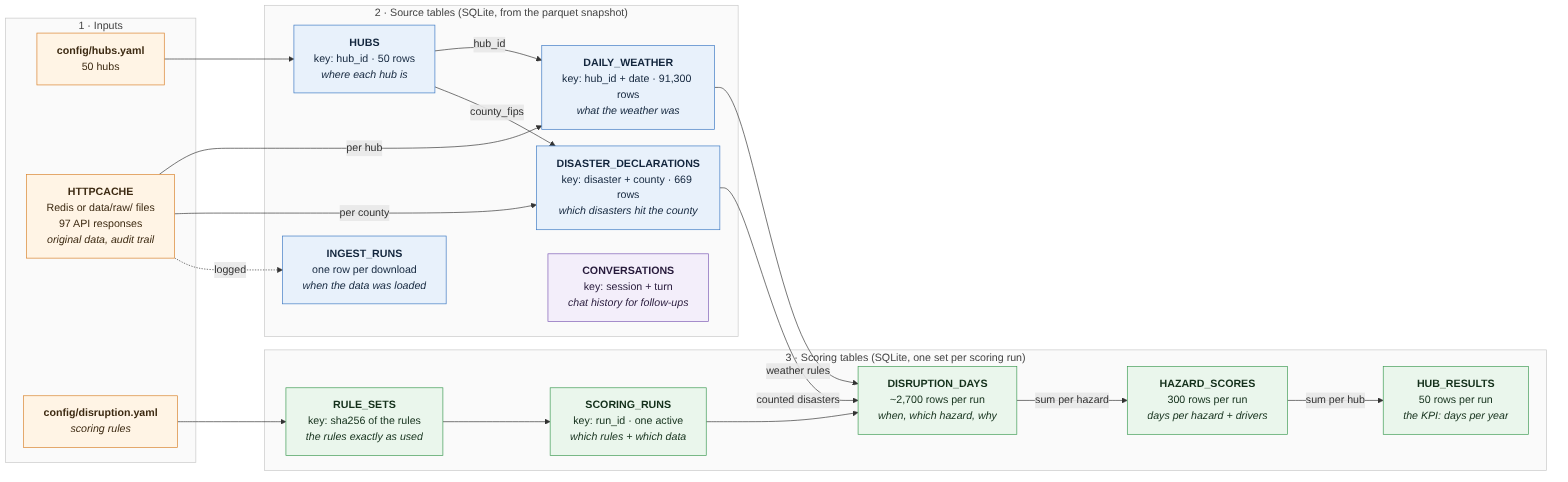
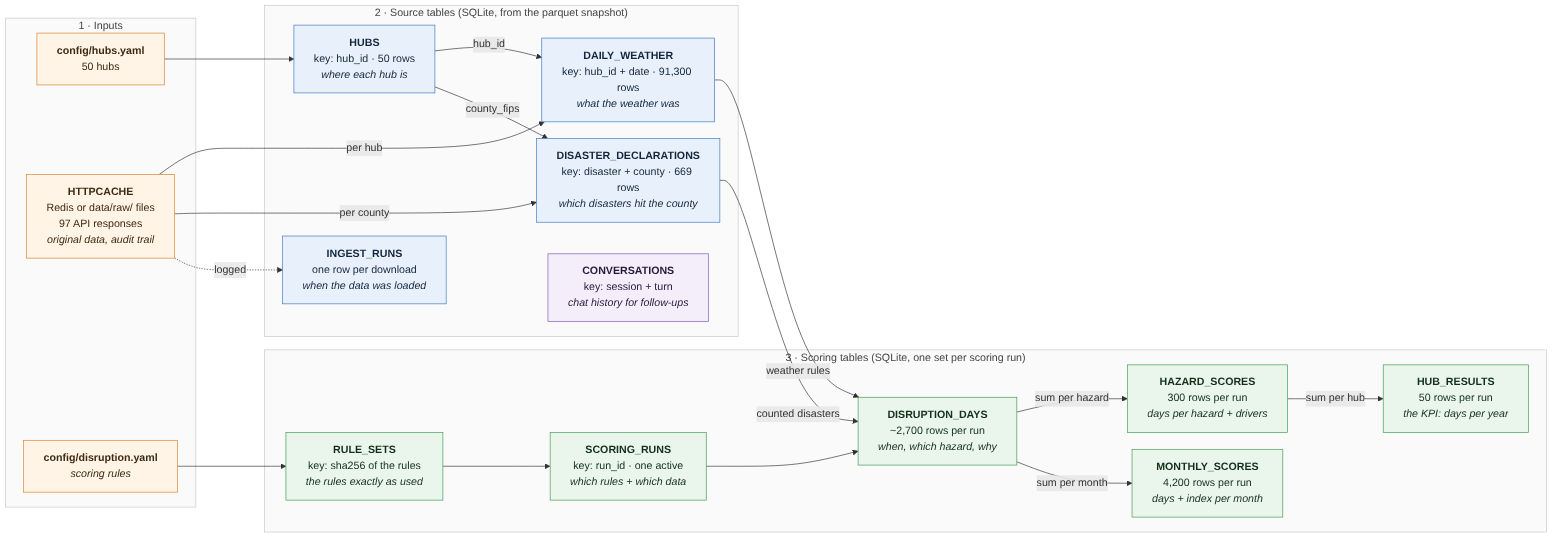
Index per month, season and period with a pro-rated reference (monthly indices average to the annual index); monthly_scores table; monthly index in the UI
Claude-Session: https://claude.ai/code/session_011hVRPXqiRTcMk6kbKtmVuh

diff --git a/app/static/index.html b/app/static/index.html
@@ -231,12 +231,13 @@ function renderDetails(res) {
   for (const c of calls0) {
     if (c.name === "hub_breakdown") {
       const r = c.result, hubs = r.hubs, key = r.by === "year" ? "days" : "days_per_year";
-      html += `<h3>By ${esc(r.by)} - ${r.by === "year" ? "actual days in the year" : "days / year in the period"}</h3>`
+      html += `<h3>By ${esc(r.by)} - ${r.by === "year" ? "actual days in the year" : "days / year in the period"} · index (100 = typical hub)</h3>`
            + "<table class='rank'><thead><tr><th>" + esc(r.by) + "</th>"
            + hubs.map(h => `<th class="num">${esc(h.hub.city)}</th>`).join("") + "</tr></thead><tbody>"
            + hubs[0].periods.map((p, j) => `<tr><td>${esc(String(p.period))}</td>` + hubs.map(h => {
                const v = h.periods[j], peak = String(h.highest_period) === String(v.period);
-               return `<td class="num">${peak ? "<b>" : ""}${v[key].toFixed(2)}${peak ? "</b>" : ""}</td>`;
+               const t = v.tier ? ` <span class="tier t-${esc(v.tier).replace(" ", "-")}" title="index ${Math.round(v.index)} (100 = typical hub)">${Math.round(v.index)}</span>` : "";
+               return `<td class="num">${peak ? "<b>" : ""}${v[key].toFixed(2)}${peak ? "</b>" : ""}${t}</td>`;
              }).join("") + "</tr>").join("") + "</tbody></table>"
            + `<p class="meta">${esc(r.small_sample_warning)}</p>`;
     }

diff --git a/app/agent/tools.py b/app/agent/tools.py
@@ -31,7 +31,9 @@ METHOD = {
     "index": ("standardised score: 100 = a typical hub (the median hub's total, fixed in the rules); "
               "index = 100 x days / reference days, for the total and for each hazard (hazard indices add "
               "up to the total); tiers: low < 50, moderate < 100, elevated < 150, high < 200, very high >= 200. "
-              "For a season or months, the index compares those days with a typical hub's WHOLE year"),
+              "For a month, season or set of months the reference is pro-rated: a month is compared with a "
+              "typical hub's average month (reference / 12), a season with 3/12 of it; so 12 monthly "
+              "indices average to the annual index"),
 }
 
 
@@ -67,10 +69,10 @@ def _leader(values: dict[str, float]) -> dict:
             "tied": top[0][1] == top[-1][1]}
 
 
-def _index(days: float) -> dict:
-    """Standardised index (100 = a typical hub's whole-year total) and tier, from the rule config."""
+def _index(days: float, months=None) -> dict:
+    """Standardised index (100 = a typical hub over the same period) and tier, from the rule config."""
     idx = load_scoring().index
-    i = idx.index(days)
+    i = idx.index(days, 12 if months is None else len(months))
     return {"index": i, "tier": idx.tier(i)}
 
 
@@ -153,7 +155,7 @@ def compare_hubs(args: CompareHubsInput) -> dict:
             return _hazard_detail(r, h, ranks[h], 2)
         v = views[r.hub_id].get(h, {"days_per_year": 0.0, "events_in_data": 0, "from_weather": 0.0,
                                      "from_fema_declarations": 0.0, "top_drivers": []})
-        return {"label": r.hazards[h].label, **v, **_index(v["days_per_year"]), "rank_among_hubs": ranks[h].get(r.hub_id),
+        return {"label": r.hazards[h].label, **v, **_index(v["days_per_year"], months), "rank_among_hubs": ranks[h].get(r.hub_id),
                 "fema_disasters_counted": [{"title": d.title, "incident_start": d.incident_begin_date,
                                             "days_counted": d.days} for d in r.declarations_counted
                                            if d.hazard == h and int((d.incident_begin_date or d.declaration_date)[5:7]) in months],
@@ -163,7 +165,7 @@ def compare_hubs(args: CompareHubsInput) -> dict:
     rows = [{
         "hub": {k: getattr(r, k) for k in ("hub_id", "city", "state", "region")},
         "total_days_per_year": round(total[r.hub_id], 3),
-        **_index(total[r.hub_id]),
+        **_index(total[r.hub_id], months),
         "overall_rank": ranks["total"].get(r.hub_id),
         "hazards": {h: detail(r, h) for h in hazards},
         "caveats": _caveats(r),

diff --git a/app/scoring/periods.py b/app/scoring/periods.py
@@ -7,6 +7,7 @@ so "days per year in winter" + the other three seasons = the annual total.
 """
 from collections import defaultdict
 
+from app.config import load_scoring
 from app.scoring.disruption import HubDisruption
 
 MONTH_NAMES = ["Jan", "Feb", "Mar", "Apr", "May", "Jun", "Jul", "Aug", "Sep", "Oct", "Nov", "Dec"]
@@ -83,6 +84,7 @@ def breakdown(r: HubDisruption, hazard: str, by: str, years: list[int]) -> list[
     year: actual days in that calendar year: weather days of that year plus counted disasters whose
           incident started that year, at their full days (not averaged)."""
     rows = []
+    idx = load_scoring().index
     if by in ("month", "season"):
         periods = ([(MONTH_NAMES[m - 1], frozenset({m})) for m in range(1, 13)] if by == "month"
                    else list(SEASONS.items()))
@@ -91,7 +93,9 @@ def breakdown(r: HubDisruption, hazard: str, by: str, years: list[int]) -> list[
             by_hz = defaultdict(float)
             for x in recs:
                 by_hz[x.hazard] += _weight(r, x)
-            rows.append({"period": name, "days_per_year": round(sum(by_hz.values()), 3),
+            days = round(sum(by_hz.values()), 3)
+            i = idx.index(days, len(months))
+            rows.append({"period": name, "days_per_year": days, "index": i, "tier": idx.tier(i),
                          "events_in_data": len({x.event for x in recs}),
                          "main_hazard": max(by_hz, key=by_hz.get) if by_hz else None})
     else:
@@ -100,7 +104,21 @@ def breakdown(r: HubDisruption, hazard: str, by: str, years: list[int]) -> list[
             by_hz = defaultdict(float)
             for x in recs:
                 by_hz[x.hazard] += x.value
-            rows.append({"period": y, "days": round(sum(by_hz.values()), 3),
+            days = round(sum(by_hz.values()), 3)
+            i = idx.index(days)
+            rows.append({"period": y, "days": days, "index": i, "tier": idx.tier(i),
                          "events": len({x.event for x in recs}),
                          "main_hazard": max(by_hz, key=by_hz.get) if by_hz else None})
     return rows
+
+
+def monthly_scores(r: HubDisruption, hazards: list[str]) -> list[dict]:
+    """Days per year and index for every month, per hazard and for the total (one row each)."""
+    idx = load_scoring().index
+    out = []
+    for hz in ["total", *hazards]:
+        for m in range(1, 13):
+            days = period_days(r, hz, frozenset({m}))
+            i = idx.index(days, 1)
+            out.append({"hazard": hz, "month": m, "days_per_year": days, "index": i, "tier": idx.tier(i)})
+    return out

diff --git a/tests/test_index.py b/tests/test_index.py
@@ -69,3 +69,40 @@ def test_old_scoring_tables_are_rebuilt_on_schema_upgrade(tmp_path, monkeypatch)
         kept = c.execute("SELECT COUNT(*) FROM conversations").fetchone()[0]
     assert "index_value" in cols and "tier" in cols
     assert kept == 1                                     # chat history is not touched
+
+
+def test_monthly_index_is_pro_rated_and_averages_to_the_annual_index():
+    from app.scoring.periods import breakdown
+    for hub in ("denver", "miami", "dallas"):
+        r = service.by_id(hub)
+        months = breakdown(r, "total", "month", [])
+        assert sum(m["index"] for m in months) / 12 == pytest.approx(r.index, abs=0.2)
+        seasons = breakdown(r, "total", "season", [])
+        assert sum(s["index"] for s in seasons) / 4 == pytest.approx(r.index, abs=0.2)
+    mar = next(m for m in breakdown(service.by_id("denver"), "total", "month", []) if m["period"] == "Mar")
+    assert (round(mar["index"]), mar["tier"]) == (624, "very high")   # 2.52 days vs 4.85 / 12
+
+
+def test_period_rankings_and_comparisons_use_the_pro_rated_reference():
+    res, _ = run_tool("rank_hubs", {**P, "hazard": "total", "region": None, "top_n": 1, "order": "most",
+                                    "season": "summer"})
+    top = res["ranking"][0]
+    assert top["index"] == pytest.approx(100 * top["days_per_year"] / (4.85 * 3 / 12), abs=0.1)
+    res, _ = run_tool("compare_hubs", {"hub_ids": ["miami", "houston"], "hazards": ["tropical"],
+                                       "season": None, "months": [6, 7, 8, 9, 10, 11]})
+    h = res["hubs"][0]
+    assert h["index"] == pytest.approx(100 * h["total_days_per_year"] / (4.85 * 6 / 12), abs=0.1)
+
+
+def test_monthly_scores_table_matches_the_breakdown():
+    from app.scoring import store
+    from app.scoring.periods import breakdown
+    run = service.run_id()
+    with db.connect() as conn:
+        rows = conn.execute("SELECT month, days_per_year, index_value, tier FROM monthly_scores "
+                            "WHERE run_id = ? AND hub_id = 'denver' AND hazard = 'total' ORDER BY month",
+                            (run,)).fetchall()
+        n = conn.execute("SELECT COUNT(*) FROM monthly_scores WHERE run_id = ?", (run,)).fetchone()[0]
+    expected = breakdown(service.by_id("denver"), "total", "month", [])
+    assert [(r[1], r[2], r[3]) for r in rows] == [(e["days_per_year"], e["index"], e["tier"]) for e in expected]
+    assert n == 50 * 7 * 12   # hubs x (6 hazards + total) x months

diff --git a/app/db.py b/app/db.py
@@ -89,6 +89,17 @@ CREATE TABLE IF NOT EXISTS disruption_days (
     PRIMARY KEY (run_id, hub_id, date, hazard, event),
     FOREIGN KEY (run_id, hub_id) REFERENCES hub_results(run_id, hub_id)
 );
+CREATE TABLE IF NOT EXISTS monthly_scores (
+    run_id INTEGER NOT NULL,
+    hub_id TEXT NOT NULL,
+    hazard TEXT NOT NULL,                 -- a hazard, or 'total'
+    month INTEGER NOT NULL,               -- 1..12
+    days_per_year REAL NOT NULL,          -- expected days per year falling in that month
+    index_value REAL NOT NULL,            -- 100 = a typical hub's average month (reference / 12)
+    tier TEXT NOT NULL,
+    PRIMARY KEY (run_id, hub_id, hazard, month),
+    FOREIGN KEY (run_id, hub_id) REFERENCES hub_results(run_id, hub_id)
+);
 CREATE INDEX IF NOT EXISTS idx_runs_status ON scoring_runs(status);
 CREATE TABLE IF NOT EXISTS conversations (
     session_id TEXT, turn INTEGER, role TEXT, content TEXT, created_at TEXT,
@@ -106,8 +117,8 @@ SNAPSHOT_TABLES = ["hubs", "daily_weather", "disaster_declarations", "ingest_run
 
 # Bump when the derived scoring tables change shape. They hold no source data (they are rebuilt from
 # the snapshot and the rules), so an older version is simply dropped and recreated.
-SCORING_SCHEMA_VERSION = 2
-SCORING_TABLES = ["disruption_days", "hazard_scores", "hub_results", "scoring_runs", "rule_sets"]
+SCORING_SCHEMA_VERSION = 3
+SCORING_TABLES = ["monthly_scores", "disruption_days", "hazard_scores", "hub_results", "scoring_runs", "rule_sets"]
 
 
 def _migrate(conn) -> None:

diff --git a/app/scoring/store.py b/app/scoring/store.py
@@ -18,6 +18,7 @@ from app import db
 from app.config import load_scoring
 from app.scoring.disruption import (CountedDeclaration, DayRecord, Driver, HazardDisruption, HubDisruption,
                                     compute_all)
+from app.scoring.periods import monthly_scores
 from app.settings import settings
 
 
@@ -89,6 +90,10 @@ def save_run(results: list[HubDisruption], rules_sha: str, rules_yaml: str, fing
             "INSERT INTO disruption_days VALUES (?,?,?,?,?,?,?,?)",
             [(run_id, r.hub_id, x.date.isoformat(), x.hazard, x.value, x.channel, x.label, x.event)
              for r in results for x in r.records])
+        conn.executemany(
+            "INSERT INTO monthly_scores VALUES (?,?,?,?,?,?,?)",
+            [(run_id, r.hub_id, m["hazard"], m["month"], m["days_per_year"], m["index"], m["tier"])
+             for r in results for m in monthly_scores(r, list(r.hazards))])
         # Switch the active run atomically (same transaction as the inserts above).
         conn.execute("UPDATE scoring_runs SET status = 'superseded' WHERE status = 'active'")
         conn.execute("UPDATE scoring_runs SET status = 'active', finished_at = ? WHERE run_id = ?", (_now(), run_id))

diff --git a/app/scoring/disruption.py b/app/scoring/disruption.py
@@ -293,8 +293,11 @@ def rank(results: list[HubDisruption], hazard: str = "total", region: str | None
     sign = -1 if order == "most" else 1
     complete = sorted((r for r in pool if r.weather_complete), key=lambda r: (sign * value(r), r.hub_id))
     idx = load_scoring().index
-    ranking = [{"rank": i, "hub_id": r.hub_id, "city": r.city, "state": r.state, "region": r.region,
-                "days_per_year": value(r), "index": idx.index(value(r)), "tier": idx.tier(idx.index(value(r)))}
-               for i, r in enumerate(complete[:top_n], 1)]
+    n_months = 12 if months is None else len(months)  # the index compares like with like (pro-rated)
+    ranking = []
+    for i, r in enumerate(complete[:top_n], 1):
+        v = idx.index(value(r), n_months)
+        ranking.append({"rank": i, "hub_id": r.hub_id, "city": r.city, "state": r.state, "region": r.region,
+                        "days_per_year": value(r), "index": v, "tier": idx.tier(v)})
     return {"hazard": hazard, "region": region, "ranking": ranking,
             "excluded_incomplete_data": [r.hub_id for r in pool if not r.weather_complete]}

diff --git a/app/config.py b/app/config.py
@@ -111,8 +111,11 @@ class IndexConfig(BaseModel):
             raise ValueError("index tiers must start at 0 and have strictly increasing lower bounds")
         return self
 
-    def index(self, days: float) -> float:
-        return round(100 * days / self.reference_days, 1)
+    def index(self, days: float, months: int = 12) -> float:
+        """100 = a typical hub over the same length of time: for a period of `months` months the
+        reference is pro-rated (a month is compared with a typical hub's average month, i.e.
+        reference_days / 12). The 12 monthly indices therefore average to the annual index."""
+        return round(100 * days / (self.reference_days * months / 12), 1)
 
     def tier(self, index: float) -> str:
         return [t.name for t in self.tiers if index >= t.min][-1]

diff --git a/README.md b/README.md
@@ -183,7 +183,9 @@ Two channels, combined per hazard:
 4.85, the median hub's total, fixed in `config/disruption.yaml`, so 100 = a typical hub (Dallas
 6.08 days -> 125). The same reference is used for each hazard, so hazard indices add up to the
 total. Tiers: low < 50, moderate < 100, elevated < 150, high < 200, very high >= 200 (on the
-current data 7 / 18 / 13 / 8 / 4 hubs).
+current data 7 / 18 / 13 / 8 / 4 hubs). **Per month and season** the reference is pro-rated (a month
+is compared with a typical hub's average month), so Denver's March is 624 (very high) and the 12
+monthly indices average to the annual index; stored in the `monthly_scores` table.
 
 Six hazards: winter (snow, ice, cold), flood (extreme rain), high wind, heat, tropical
 (hurricanes), severe storms. All thresholds are **expert judgment**, calibrated once against the
@@ -276,7 +278,7 @@ Two layers:
 
 | Layer | Checks | Command | Cost |
 |---|---|---|---|
-| Unit tests (`tests/`, 67 tests) | Scoring rules, time breakdowns, stored scoring runs, ingestion, API, agent loop with a scripted fake Claude, the eval checks themselves, Redis cache | `uv run pytest -q` | free, offline |
+| Unit tests (`tests/`, 70 tests) | Scoring rules, time breakdowns, stored scoring runs, ingestion, API, agent loop with a scripted fake Claude, the eval checks themselves, Redis cache | `uv run pytest -q` | free, offline |
 | Agent evals (`evals/`, 15 cases / 17 turns) | The real model on edge cases: the 4 assignment questions, a city that is not a hub, "top 100" when only 50 exist, follow-ups, "winter" hazard vs season, safest hubs, worst month, per-year comparison, hurricane season | `uv run python -m evals.run` | ~$0.55 |
 
 Checks on every turn: valid answer format, the right tool with the right arguments, ranking equal
@@ -434,7 +436,7 @@ Every answer from the agent carries `assumptions`, `confidence` and `uncertainty
 ## 12. Status and next steps
 
 Built: data ingestion, scoring engine, time breakdowns, 5-tool agent with guardrails, API, chat
-page with agent-step view, trajectories, Redis cache, scores stored per scoring run, standardised index and tiers, 67 tests, 15-case eval set (run 7: 110/111).
+page with agent-step view, trajectories, Redis cache, scores stored per scoring run, standardised index and tiers (also per month), 70 tests, 15-case eval set (run 7: 110/111).
 
 Next (in order): refresh `docs/ARCHITECTURE.md`; deploy (Docker on Render); bonus: voice input
 (browser Web Speech API) and an alert when a hub's score changes. Longer-term improvements (cost in

diff --git a/docs/DATA_MODEL.md b/docs/DATA_MODEL.md
@@ -37,6 +37,7 @@ flowchart LR
         DD["<b>DISRUPTION_DAYS</b><br/>~2,700 rows per run<br/><i>when, which hazard, why</i>"]
         HZ["<b>HAZARD_SCORES</b><br/>300 rows per run<br/><i>days per hazard + drivers</i>"]
         HR["<b>HUB_RESULTS</b><br/>50 rows per run<br/><i>the KPI: days per year</i>"]
+        MS["<b>MONTHLY_SCORES</b><br/>4,200 rows per run<br/><i>days + index per month</i>"]
     end
 
     Y --> H
@@ -52,6 +53,7 @@ flowchart LR
     SR --> DD
     DD -- "sum per hazard" --> HZ
     HZ -- "sum per hub" --> HR
+    DD -- "sum per month" --> MS
 
     classDef cache fill:#fff4e5,stroke:#d9822b,color:#3d2a12
     classDef sql fill:#e8f1fb,stroke:#3b78c3,color:#13263d
@@ -61,7 +63,7 @@ flowchart LR
     class HC,Y,RY cache
     class H,W,D,I sql
     class C chat
-    class RS,SR,DD,HZ,HR score
+    class RS,SR,DD,HZ,HR,MS score
     class L1,L2,L3 layer
 ```
 
@@ -80,6 +82,7 @@ flowchart LR
 | `DISRUPTION_DAYS` | SQLite (scoring) | Every disruption day and counted disaster after the rules: the source of all time breakdowns | scoring | month / season / year tools |
 | `HAZARD_SCORES` | SQLite (scoring) | Days per year per hub and hazard, with the rules behind them (drivers) | scoring | all tools, run comparison |
 | `HUB_RESULTS` | SQLite (scoring) | The KPI per hub, data coverage, FEMA disasters counted | scoring | all tools, `/rankings`, `/hubs` |
+| `MONTHLY_SCORES` | SQLite (scoring) | Days per year, index and tier per hub, hazard (and total) and month | scoring | SQL, dashboards (same values as `hub_breakdown`) |
 
 ## Columns
 
@@ -95,6 +98,7 @@ flowchart LR
 | `SCORING_RUNS` | **run_id**, rule_set_id, data_fingerprint, data_as_of, status (running / active / superseded), hubs, started_at, finished_at |
 | `DISRUPTION_DAYS` | **run_id**, **hub_id**, **date**, **hazard**, **event**, value, channel (weather / declarations), label (rule) |
 | `HAZARD_SCORES` | **run_id**, **hub_id**, **hazard**, label, days_per_year, index_value, tier, from_weather, from_declarations, events_per_year, drivers_json |
+| `MONTHLY_SCORES` | **run_id**, **hub_id**, **hazard** (or total), **month**, days_per_year, index_value (100 = a typical hub's average month), tier |
 | `HUB_RESULTS` | **run_id**, **hub_id**, total_days_per_year, index_value, tier, weather_complete, weather_coverage, weather_period, weather_years, declaration_years, weather_days_deduplicated, declarations_json |
 
 ## How scoring runs work

diff --git a/docs/DESIGN_DECISIONS.md b/docs/DESIGN_DECISIONS.md
@@ -430,8 +430,16 @@ later be priced).
   high 150-199, very high >= 200. On the current data: 7 / 18 / 13 / 8 / 4 hubs (very high:
   Boston 270, Minneapolis 242, Denver 213, Milwaukee 212). Bounds are validated (start at 0, increasing).
 - **Rankings are unchanged**: the index is proportional to days, so the order is the same.
-- **Seasons and months**: an index for a period compares those days with a typical hub's whole
-  year (stated in the tool's `method`).
+- **Per month, season and set of months (pro-rated reference)**: a period is compared with a typical
+  hub over the same length of time, i.e. reference x months / 12. A month is compared with a typical
+  hub's average month (4.85 / 12 = 0.40 days): Denver March, 2.52 days -> index 624, very high.
+  Rejected: comparing a month with a whole year (every month looks "low", tiers meaningless) and
+  with the typical hub's same month (summer medians near 0 explode, like heat). With pro-rating,
+  the 12 monthly indices (and the 4 seasonal ones) **average exactly to the annual index**, and the
+  same tiers mean the same thing at every grain. Applies to `hub_breakdown` (month / season; a single
+  calendar year uses the full reference), `rank_hubs` and `compare_hubs` with a season or months.
+- **`monthly_scores` table**: hub x hazard (+ total) x month per scoring run (4,200 rows): days per
+  year in that month, index, tier. Queryable in SQL, and the grain the scalable design uses.
 - **Storage**: `hub_results` and `hazard_scores` gained `index_value` and `tier`. Scoring tables
   are derived, so a schema version (`PRAGMA user_version`) drops and rebuilds them on upgrade;
   source tables and chat history are untouched.

diff --git a/docs/HANDOFF.md b/docs/HANDOFF.md
@@ -53,8 +53,8 @@ Work started around 13:30 UTC on 2026-11-15; about 4 hours used so far.
 | UI | `app/static/index.html` | single page, no libraries, chat + details panel |
 | Raw cache | `app/sources/http_cache.py` | Redis when `REDIS_URL` is set (`import-files`, `status`), else `data/raw/` files (`DESIGN_DECISIONS.md` section 16) |
 | Scores | `app/scoring/store.py` | SQLite scoring tables, one set per scoring run; memory caches the active run (`DESIGN_DECISIONS.md` section 17) |
-| Index | `config/disruption.yaml` `index` | 100 = median hub (4.85 days, fixed); tiers low..very high (`DESIGN_DECISIONS.md` section 18) |
-| Tests | `tests/` | 67 offline tests (`uv run pytest -q`) |
+| Index | `config/disruption.yaml` `index` | 100 = median hub (4.85 days, fixed); tiers low..very high; per month/season pro-rated, `monthly_scores` table (`DESIGN_DECISIONS.md` section 18) |
+| Tests | `tests/` | 70 offline tests (`uv run pytest -q`) |
 | Evals | `evals/cases.yaml`, `evals/checks.py`, `evals/run.py` | 15 cases / 17 turns; `uv run python -m evals.run` (~$0.16-0.20 per run, laptop only) |
 
 Current top of the ranking: Boston 13.1, Minneapolis 11.7, Denver 10.3, Milwaukee 10.3, Chicago 9.6 (winter-driven). Virginia Beach (#6) is inflated by coastal wind, a documented limitation.
